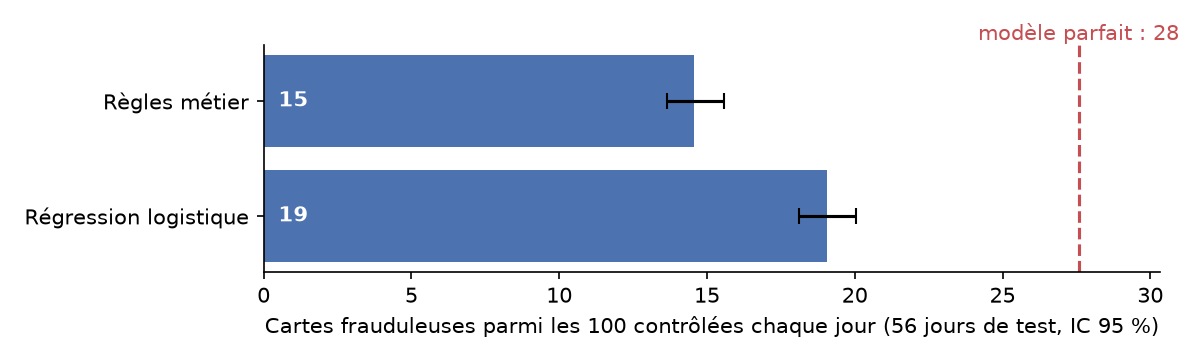
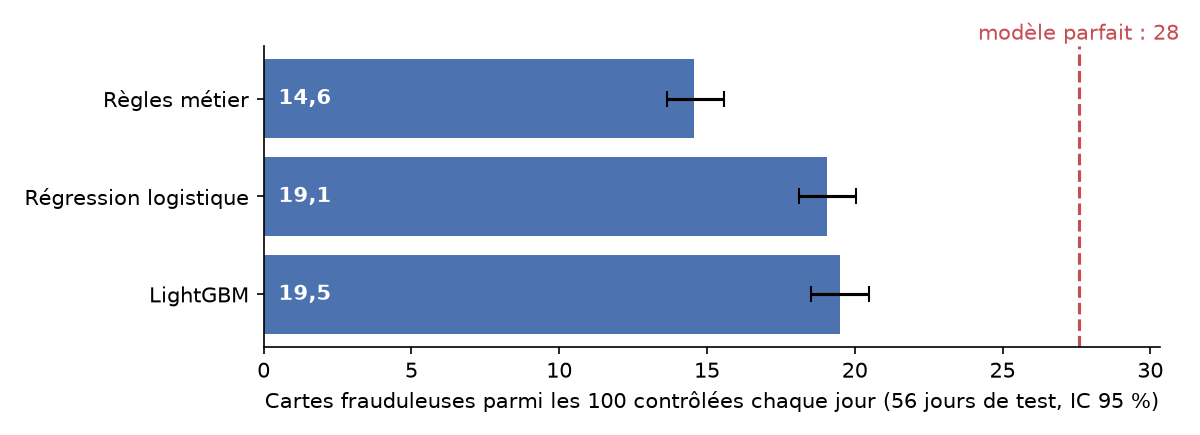
lightgbm + suivi mlflow

diff --git a/src/fraudops/evaluate.py b/src/fraudops/evaluate.py
@@ -1,9 +1,12 @@
 """Prequential evaluation of the card models: out-of-sample scores, metrics and figure."""
 
 import json
+from collections.abc import Callable
+from functools import partial
 from pathlib import Path
 
 import matplotlib.pyplot as plt
+import mlflow
 import numpy as np
 import pandas as pd
 
@@ -13,25 +16,76 @@ from fraudops.validate import TEST_WEEKS, VALIDATION_WEEKS, split
 
 SCORES_PATH = Path("data/scores.parquet")
 REPORT_DIR = Path("reports")
-MODELS = {"rules": models.rules, "logistic": models.logistic_regression}
-LABELS = {"rules": "Règles métier", "logistic": "Régression logistique"}
-KEPT_COLUMNS = ["transaction_id", "tx_time_days", "customer_id", "tx_amount", "tx_fraud"]
+BASELINES = {"rules": models.rules, "logistic": models.logistic_regression}
+LABELS = {"rules": "Règles métier", "logistic": "Régression logistique", "lightgbm": "LightGBM"}
+KEPT_COLUMNS = [
+    "transaction_id",
+    "tx_time_days",
+    "customer_id",
+    "tx_amount",
+    "tx_fraud",
+    "tx_fraud_scenario",
+    "terminal_risk_30d",
+]
 
 
 def prequential_scores(
-    features: pd.DataFrame, weeks: tuple[int, ...] = VALIDATION_WEEKS + TEST_WEEKS
+    features: pd.DataFrame,
+    fit_predicts: dict[str, Callable],
+    weeks: tuple[int, ...] = VALIDATION_WEEKS + TEST_WEEKS,
 ) -> pd.DataFrame:
-    """Scores of every model on the given weeks, each model being retrained every week."""
+    """Scores of each model on the given weeks, every model being retrained each week."""
     scored = []
     for start in weeks:
         train, test = split(features, start)
-        scores = {name: fit_predict(train, test) for name, fit_predict in MODELS.items()}
+        scores = {name: fit_predict(train, test) for name, fit_predict in fit_predicts.items()}
         scored.append(test[KEPT_COLUMNS].assign(**scores))
     return pd.concat(scored, ignore_index=True)
 
 
-def fmt(value: float, low: float, high: float) -> str:
-    """Value and interval in French notation, like 0,52 [0,49 ; 0,55]."""
+def tune_lightgbm(features: pd.DataFrame) -> dict:
+    """Hyperparameters with the best AUC-PR on the validation weeks, each run logged in MLflow."""
+    results = []
+    for params in models.LIGHTGBM_GRID:
+        fit_predict = partial(models.lightgbm, params=params)
+        scored = prequential_scores(features, {"lightgbm": fit_predict}, VALIDATION_WEEKS)
+        auc_pr = metrics.auc_pr_of_days(scored, "lightgbm")(scored["tx_time_days"].unique())
+        card_precision = metrics.card_precision(scored, "lightgbm").mean()
+        with mlflow.start_run(run_name="lightgbm_tuning"):
+            mlflow.log_params(params)
+            mlflow.log_metrics(
+                {"validation_auc_pr": auc_pr, "validation_card_precision": card_precision}
+            )
+        results.append((auc_pr, params))
+    return max(results, key=lambda result: result[0])[1]
+
+
+def share_stopped(test: pd.DataFrame, score: str) -> dict[str, float]:
+    """Share of frauds stopped by the investigations, by scenario.
+
+    A fraud is stopped when its card is investigated that day, or was blocked earlier because an
+    investigation found a fraud on it. Scenario 2 is split: frauds on a terminal with a fraud
+    already known, and the others.
+    """
+    investigated = metrics.investigations(test, score)
+    found = investigated[investigated["tx_fraud"] == 1].reset_index()
+    blocked_from = found.groupby("customer_id")["tx_time_days"].min()
+    frauds = test[test["tx_fraud"] == 1]
+    that_day = pd.MultiIndex.from_frame(frauds[["tx_time_days", "customer_id"]]).isin(
+        investigated.index
+    )
+    stopped = that_day | (frauds["customer_id"].map(blocked_from) < frauds["tx_time_days"])
+
+    group = "scenario " + frauds["tx_fraud_scenario"].astype(str)
+    unknown_terminal = (frauds["tx_fraud_scenario"] == 2) & (frauds["terminal_risk_30d"] == 0)
+    group = group.where(~unknown_terminal, "scenario 2, terminal without known fraud")
+    return stopped.groupby(group).mean().to_dict()
+
+
+def format_interval(value: float, low: float, high: float, percent: bool = False) -> str:
+    """Value and 95% interval in French notation: 0,66 [0,65 ; 0,68] or 19,5 % [18,5 ; 20,4]."""
+    if percent:
+        return f"{100 * value:.1f} % [{100 * low:.1f} ; {100 * high:.1f}]".replace(".", ",")
     return f"{value:.2f} [{low:.2f} ; {high:.2f}]".replace(".", ",")
 
 
@@ -42,7 +96,7 @@ def plot_card_precision(results: dict, ceiling: float, path: Path) -> None:
     fig, ax = plt.subplots(figsize=(8, 1.4 + 0.5 * len(labels)))
     ax.barh(labels, value, xerr=[value - low, high - value], color="#4C72B0", capsize=4)
     for y, v in enumerate(value):
-        ax.text(0.5, y, f"{v:.0f}", va="center", color="white", weight="bold")
+        ax.text(0.5, y, f"{v:.1f}".replace(".", ","), va="center", color="white", weight="bold")
     ax.axvline(100 * ceiling, color="#C44E52", linestyle="--")
     ax.text(
         100 * ceiling,
@@ -63,26 +117,51 @@ def plot_card_precision(results: dict, ceiling: float, path: Path) -> None:
     plt.close(fig)
 
 
+def print_summary(report: dict) -> None:
+    print("| Modèle | Card Precision@100 | AUC-PR |\n|---|---|---|")
+    for name, result in report["models"].items():
+        card_precision = format_interval(*result["card_precision"], percent=True)
+        print(f"| {LABELS[name]} | {card_precision} | {format_interval(*result['auc_pr'])} |")
+    ceiling = 100 * report["card_precision_ceiling"]
+    print(f"| Plafond (modèle parfait) | {ceiling:.1f} % | 1 |".replace(".", ","))
+    for name, gain in report["lightgbm_card_precision_gain"].items():
+        print(f"LightGBM moins {LABELS[name]} : {format_interval(*gain, percent=True)}")
+    for group, share in report["lightgbm_share_of_frauds_stopped"].items():
+        print(f"Fraudes stoppées avec LightGBM, {group} : {share:.0%}")
+
+
 def main() -> None:
-    scores = prequential_scores(pd.read_parquet(FEATURES_PATH))
+    features = pd.read_parquet(FEATURES_PATH)
+    mlflow.set_experiment("fraudops")
+    params = tune_lightgbm(features)
+    fit_predicts = BASELINES | {"lightgbm": partial(models.lightgbm, params=params)}
+    scores = prequential_scores(features, fit_predicts)
     scores["period"] = np.where(scores["tx_time_days"] < TEST_WEEKS[0], "validation", "test")
     scores.to_parquet(SCORES_PATH, index=False)
 
     test = scores[scores["period"] == "test"]
-    results = {name: metrics.summarize(test, name) for name in MODELS}
+    results = {name: metrics.summarize(test, name) for name in fit_predicts}
     # A perfect model scores 1 on frauds: its Card Precision is the best achievable.
     ceiling = metrics.card_precision(test.assign(perfect=test["tx_fraud"]), "perfect").mean()
+    gains = {name: metrics.paired_difference(test, "lightgbm", name) for name in BASELINES}
+    for name, result in results.items():
+        with mlflow.start_run(run_name=name):
+            if name == "lightgbm":
+                mlflow.log_params(params)
+            mlflow.log_metrics({f"test_{metric}": value[0] for metric, value in result.items()})
 
     (REPORT_DIR / "figures").mkdir(parents=True, exist_ok=True)
-    report = {"models": results, "card_precision_ceiling": ceiling}
+    report = {
+        "models": results,
+        "card_precision_ceiling": ceiling,
+        "lightgbm_params": params,
+        "lightgbm_card_precision_gain": gains,
+        "lightgbm_share_of_frauds_stopped": share_stopped(test, "lightgbm"),
+    }
     (REPORT_DIR / "models.json").write_text(json.dumps(report, indent=2) + "\n")
     plot_card_precision(results, ceiling, REPORT_DIR / "figures" / "card_precision.png")
 
-    print("| Modèle | Card Precision@100 | AUC-PR |\n|---|---|---|")
-    for name, result in results.items():
-        cp, auc = fmt(*result["card_precision"]), fmt(*result["auc_pr"])
-        print(f"| {LABELS[name]} | {cp} | {auc} |")
-    print(f"| Plafond (modèle parfait) | {ceiling:.2f} | 1 |".replace(".", ","))
+    print_summary(report)
 
 
 if __name__ == "__main__":

diff --git a/src/fraudops/metrics.py b/src/fraudops/metrics.py
@@ -9,22 +9,26 @@ CAPACITY = 100  # cards the team can investigate each day
 N_RESAMPLES = 1000
 
 
-def card_precision(scored: pd.DataFrame, score: str, k: int = CAPACITY) -> pd.Series:
-    """Card Precision@k of each day: share of frauds among the k most suspicious cards.
+def investigations(scored: pd.DataFrame, score: str, k: int = CAPACITY) -> pd.DataFrame:
+    """Cards investigated each day: the k most suspicious ones that are not blocked yet.
 
     A card's score is its highest transaction score of the day. The fraudulent cards found by
     the investigation are blocked and leave the following days.
     """
     cards = scored.groupby(["tx_time_days", "customer_id"])[[score, "tx_fraud"]].max()
     blocked = set()
-    precision = {}
-    for day, day_cards in cards.groupby(level="tx_time_days"):
-        day_cards = day_cards.droplevel("tx_time_days")
-        top = day_cards[~day_cards.index.isin(blocked)].nlargest(k, score)
-        found = top.index[top["tx_fraud"] == 1]
-        precision[day] = len(found) / k
-        blocked.update(found)
-    return pd.Series(precision)
+    investigated = []
+    for _, day_cards in cards.groupby(level="tx_time_days"):
+        customers = day_cards.index.get_level_values("customer_id")
+        top = day_cards[~customers.isin(blocked)].nlargest(k, score)
+        investigated.append(top)
+        blocked.update(top.index.get_level_values("customer_id")[top["tx_fraud"] == 1])
+    return pd.concat(investigated)
+
+
+def card_precision(scored: pd.DataFrame, score: str, k: int = CAPACITY) -> pd.Series:
+    """Card Precision@k of each day: share of frauds among the k cards investigated."""
+    return investigations(scored, score, k).groupby(level="tx_time_days")["tx_fraud"].sum() / k
 
 
 def auc_pr_of_days(scored: pd.DataFrame, score: str) -> Callable[[np.ndarray], float]:
@@ -62,3 +66,13 @@ def summarize(scored: pd.DataFrame, score: str) -> dict[str, list[float]]:
         "card_precision": [daily.mean(), *bootstrap_interval(lambda d: daily[d].mean(), days)],
         "auc_pr": [auc_pr(days), *bootstrap_interval(auc_pr, days)],
     }
+
+
+def paired_difference(scored: pd.DataFrame, score: str, baseline: str) -> list[float]:
+    """Card Precision@100 of `score` minus `baseline`, as [value, low, high].
+
+    Both models are compared on the same resampled days (paired bootstrap).
+    """
+    difference = card_precision(scored, score) - card_precision(scored, baseline)
+    days = difference.index.to_numpy()
+    return [difference.mean(), *bootstrap_interval(lambda d: difference[d].mean(), days)]

diff --git a/src/fraudops/models.py b/src/fraudops/models.py
@@ -2,6 +2,7 @@
 
 import numpy as np
 import pandas as pd
+from lightgbm import LGBMClassifier, early_stopping
 from sklearn.linear_model import LogisticRegression
 from sklearn.pipeline import make_pipeline
 from sklearn.preprocessing import StandardScaler
@@ -12,6 +13,9 @@ FEATURES = [
     "tx_amount",
     *[f"customer_{stat}_{days}d" for days in WINDOWS for stat in ("nb_tx", "avg_amount")],
     *[f"terminal_{stat}_{days}d" for days in WINDOWS for stat in ("nb_tx", "risk")],
+]
+LIGHTGBM_GRID = [
+    {"num_leaves": leaves, "learning_rate": rate} for leaves in (15, 31, 63) for rate in (0.05, 0.1)
 ]
 
 
@@ -33,4 +37,23 @@ def logistic_regression(train: pd.DataFrame, test: pd.DataFrame) -> np.ndarray:
     """Fraud probability from a logistic regression on standardized features."""
     model = make_pipeline(StandardScaler(), LogisticRegression(max_iter=1000))
     model.fit(train[FEATURES], train["tx_fraud"])
+    return model.predict_proba(test[FEATURES])[:, 1]
+
+
+def lightgbm(train: pd.DataFrame, test: pd.DataFrame, params: dict) -> np.ndarray:
+    """Fraud probability from LightGBM, stopped early on the last week of the training window."""
+    last_week = train["tx_time_days"] > train["tx_time_days"].max() - 7
+    fit, stop = train[~last_week], train[last_week]
+    # deterministic: the same results whatever the number of threads of the machine.
+    model = LGBMClassifier(
+        n_estimators=1000, deterministic=True, force_row_wise=True, verbose=-1, **params
+    )
+    model.fit(
+        fit[FEATURES],
+        fit["tx_fraud"],
+        eval_X=stop[FEATURES],
+        eval_y=stop["tx_fraud"],
+        eval_metric="average_precision",
+        callbacks=[early_stopping(50, verbose=False)],
+    )
     return model.predict_proba(test[FEATURES])[:, 1]

diff --git a/tests/test_models.py b/tests/test_models.py
@@ -1,6 +1,6 @@
 import pandas as pd
 
-from fraudops.models import logistic_regression, rules
+from fraudops.models import LIGHTGBM_GRID, lightgbm, logistic_regression, rules
 from fraudops.validate import split
 
 
@@ -20,5 +20,12 @@ def test_rules_rank_by_number_of_rules_then_amount():
 def test_logistic_regression_gives_probabilities(small_features):
     train, test = split(small_features, test_start=45)
     scores = logistic_regression(train, test)
+    assert len(scores) == len(test)
+    assert ((scores >= 0) & (scores <= 1)).all()
+
+
+def test_lightgbm_gives_probabilities(small_features):
+    train, test = split(small_features, test_start=45)
+    scores = lightgbm(train, test, LIGHTGBM_GRID[0])
     assert len(scores) == len(test)
     assert ((scores >= 0) & (scores <= 1)).all()

diff --git a/tests/test_evaluate.py b/tests/test_evaluate.py
@@ -1,8 +1,8 @@
-from fraudops.evaluate import MODELS, prequential_scores
+from fraudops.evaluate import BASELINES, prequential_scores
 
 
 def test_prequential_scores_cover_every_test_week(small_features):
-    scores = prequential_scores(small_features, weeks=(45, 52))
+    scores = prequential_scores(small_features, BASELINES, weeks=(45, 52))
     assert scores["tx_time_days"].min() == 45
     assert scores["tx_time_days"].max() == 58
-    assert scores[list(MODELS)].notna().all().all()
+    assert scores[list(BASELINES)].notna().all().all()

diff --git a/README.md b/README.md
@@ -8,19 +8,23 @@ Détection de fraude carte bancaire, évaluée comme en production : le modèle 
 
 | Modèle | Card Precision@100 | AUC-PR |
 |---|---|---|
-| Règles métier | 0,15 [0,14 ; 0,16] | 0,37 [0,35 ; 0,39] |
-| Régression logistique | 0,19 [0,18 ; 0,20] | 0,61 [0,58 ; 0,63] |
-| Plafond (modèle parfait) | 0,28 | 1 |
+| Règles métier | 14,6 % [13,7 ; 15,6] | 0,37 [0,35 ; 0,39] |
+| Régression logistique | 19,1 % [18,1 ; 20,1] | 0,61 [0,58 ; 0,63] |
+| **LightGBM** | **19,5 %** [18,5 ; 20,5] | **0,66** [0,65 ; 0,68] |
+| Plafond (modèle parfait) | 27,6 % | 1 |
 
 La Card Precision@100 est la part de vraies fraudes parmi les 100 cartes contrôlées chaque jour. Résultats sur 8 semaines de test, avec des intervalles de confiance à 95 % obtenus par bootstrap sur les 56 jours.
 
-Données : 1,8 M de transactions simulées d'après le Fraud Detection Handbook (ULB, 2022). Outils : pandas, DuckDB, PySpark, scikit-learn, pytest, GitHub Actions.
+**Ce qu'il faut retenir.** LightGBM stoppe 95 à 100 % des fraudes repérables. Il ne manque que les fraudes d'un terminal compromis dont aucune fraude n'est encore connue (8 % stoppées) : tant que les premières étiquettes n'arrivent pas, ni le montant ni l'historique du client ne les trahissent. C'est l'essentiel de l'écart au plafond. Face à la régression logistique, le gain est net en AUC-PR mais faible en Card Precision@100 (+0,4 point [0,2 ; 0,7]) : ici, les features portent l'essentiel du signal.
+
+Données : 1,8 M de transactions simulées d'après le Fraud Detection Handbook (ULB, 2022). Outils : pandas, DuckDB, PySpark, scikit-learn, LightGBM, MLflow, pytest, GitHub Actions.
 
 ## Méthode
 
 - **Validation préquentielle.** Chaque semaine, le modèle est ré-entraîné sur les 28 derniers jours dont les étiquettes sont connues, puis score la semaine suivante. Les 4 premières semaines servent aux réglages, les 8 suivantes aux résultats.
 - **Cartes bloquées.** Une carte dont une fraude est connue est bloquée et ses transactions ne sont plus scorées. Cela retire la moitié des fraudes des semaines de test, celles que la banque connaît déjà sans modèle, et ramène le plafond de la Card Precision@100 à 0,28.
 - **Règles métier.** Trois règles tirées de l'exploration : montant supérieur à 220 €, fraude récente déjà connue sur le terminal, montant trois fois supérieur à l'habitude du client. À égalité de règles, les plus gros montants passent en premier.
+- **LightGBM.** Arrêt précoce sur la dernière semaine de la fenêtre d'entraînement et 6 combinaisons d'hyperparamètres comparées sur les semaines de validation, toutes suivies dans MLflow (`make mlflow`).
 
 ## Installation
 
@@ -33,7 +37,8 @@ make data       # génère data/transactions.parquet
 make explore    # lance les requêtes DuckDB de sql/
 make features   # calcule les features avec pandas
 make benchmark  # compare pandas et Spark sur le jeu complet
-make evaluate   # entraîne et évalue les modèles, écrit reports/
+make evaluate   # entraîne et évalue les modèles, écrit reports/ (environ 3 minutes)
+make mlflow     # ouvre l'interface MLflow sur http://127.0.0.1:5000
 ```
 
 ## Données

diff --git a/docs/DECISIONS.md b/docs/DECISIONS.md
@@ -36,3 +36,10 @@ Les choix structurants du projet, avec leur raison.
 - **Cartes connues bloquées pendant les semaines de test**, comme dans le Handbook. Le modèle est jugé sur les fraudes que la banque ne connaît pas encore, ce qui divise par deux le nombre de fraudes à trouver.
 - **Semaines de validation distinctes des semaines de test.** Règles, hyperparamètres, seuil et calibration sont choisis sur les 4 semaines de validation ; les 8 semaines de test ne servent qu'aux résultats.
 - **Bootstrap de l'AUC-PR par pondération des jours.** Les transactions sont triées une seule fois, puis chaque tirage pondère les jours par leur nombre de tirages. Le résultat est identique à scikit-learn, une vingtaine de fois plus vite.
+
+## LightGBM
+
+- **Réglage restreint à 6 combinaisons**, départagées par l'AUC-PR de validation, plus stable que la Card Precision@100 sur 4 semaines. Chaque combinaison est suivie dans MLflow.
+- **Ni pondération des classes ni SMOTE.** Le classement n'en a pas besoin, et les probabilités restent exploitables pour la calibration.
+- **Entraînement déterministe** : les mêmes résultats quel que soit le nombre de cœurs de la machine.
+- **Part de fraudes stoppées par scénario.** Elle montre que l'écart au plafond vient des fraudes qu'aucune donnée ne permet encore de repérer, pas d'un défaut du modèle.
